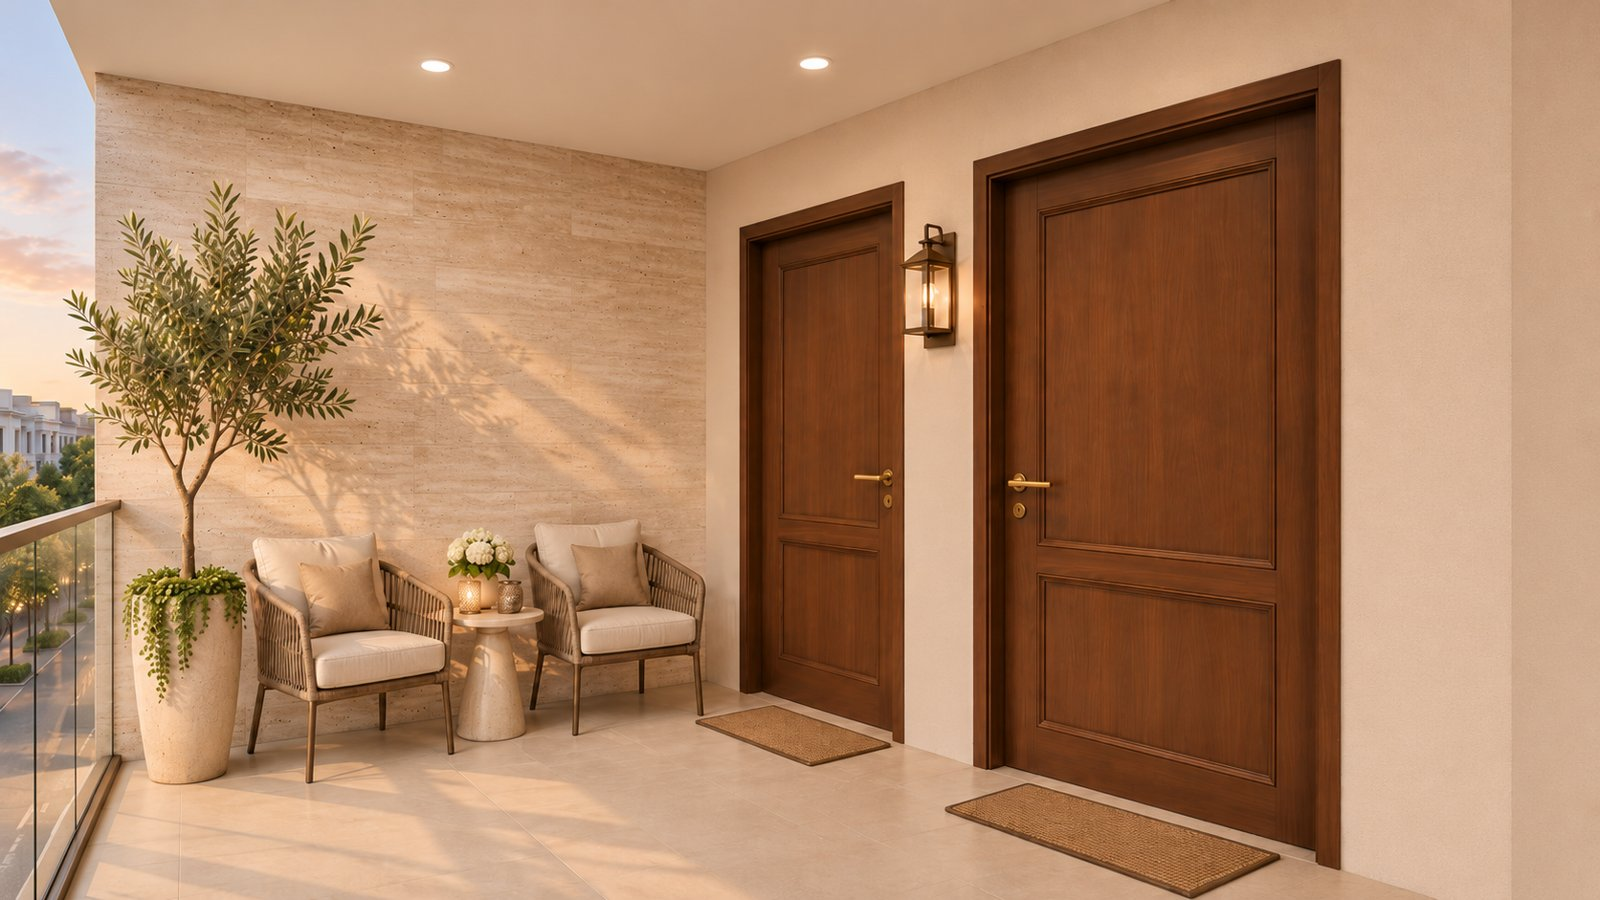
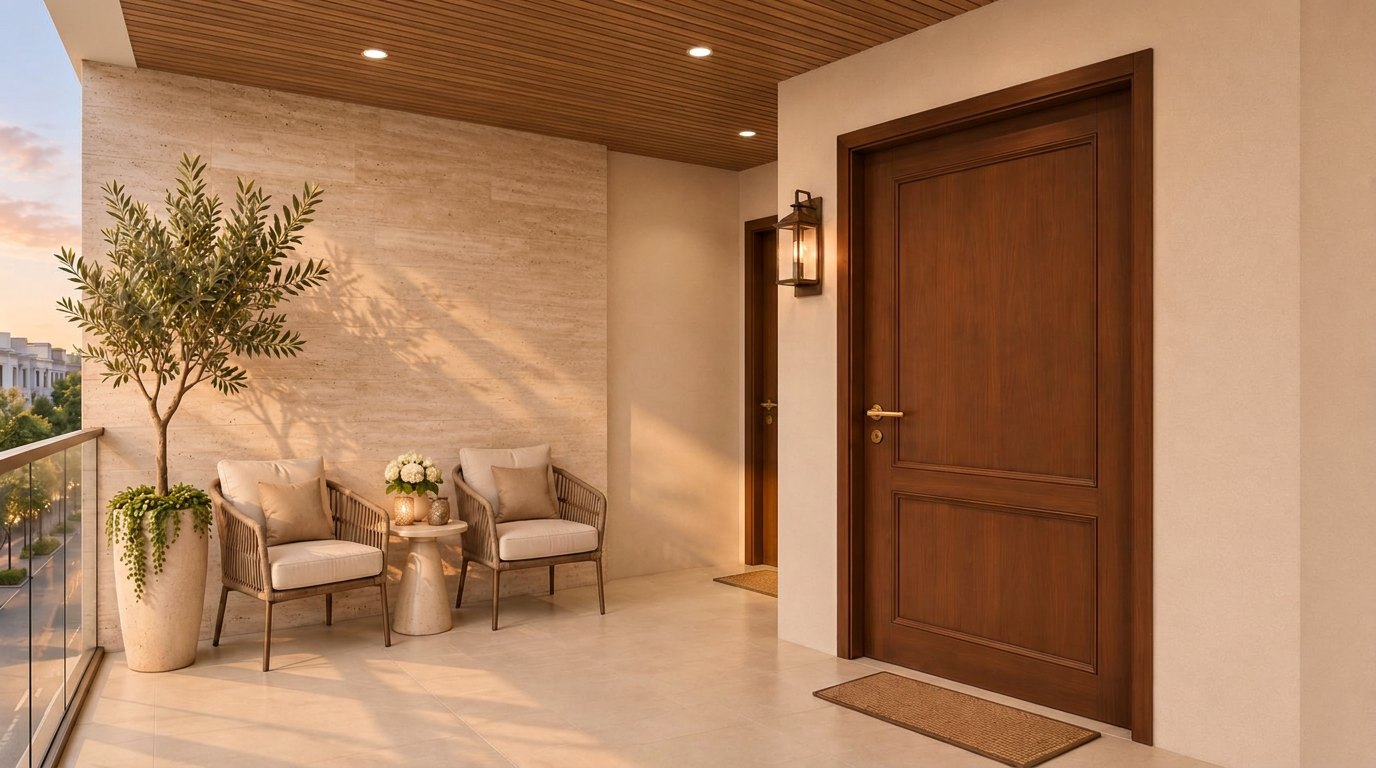
Karbala 5.70: new E and G renders with the corridor-door recess

diff --git a/karbala-570/index.html b/karbala-570/index.html
@@ -272,7 +272,7 @@ function render(){
   <section id="model"><div class="wrap"><h2>${t.model_t}</h2><p class="sub">${t.model_s}</p>
     <div class="frame3d" id="f3d" style="background-image:url(${IMG}model3d.jpg)"><div class="start"><button class="btn" id="go3d">${t.load3d}</button></div></div>
     <div class="cta" style="margin-top:12px"><a class="btn ghost" href="model3d.html?lang=${L}">${t.full} ⤢</a></div></div></section>
-  <footer><div class="wrap">${t.foot} · v10</div></footer>`;
+  <footer><div class="wrap">${t.foot} · v11</div></footer>`;
   $('#sheet').innerHTML=`<div style="display:flex;justify-content:space-between;align-items:center;margin-bottom:6px"><b>${t.set}</b><button class="ib" data-close>${t.close}</button></div>
     <div class="srow"><span>${t.lang}</span><div class="seg">${Object.keys(TX).map(k=>`<button data-setlang="${k}" class="${k===L?'on':''}">${TX[k].name}</button>`).join('')}</div></div>
     <div class="srow"><span>${t.theme}</span><div class="seg"><button data-theme="dark" class="${theme==='dark'?'on':''}">${t.dark}</button><button data-theme="light" class="${theme==='light'?'on':''}">${t.light}</button></div></div>
